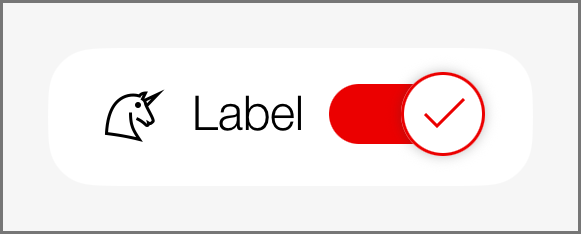
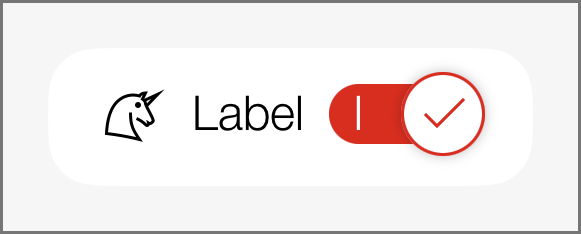
switch support of on/off labels

Changed region(s): [[0.5577, 0.359, 0.8055, 0.688], [0.7745, 0.359, 0.8365, 0.6282], [0.7126, 0.2991, 0.8055, 0.359]]

diff --git a/SBBDesignSystemMobileSwiftUI/Styles/SBBSwitchButtonStyle.swift b/SBBDesignSystemMobileSwiftUI/Styles/SBBSwitchButtonStyle.swift
@@ -5,7 +5,7 @@
 import SwiftUI
 
 /**
- A ToggleStyle in SBB style (red background)
+ A SBB ToggleStyle in SBB style (red background, SBB styling)
  
  ## Overview
  You create a normal Toggle and apply the .toggleStyle() ViewModifier:
@@ -47,42 +47,81 @@ public struct SBBSwitchButtonStyle: ToggleStyle {
     // SwitchToggleStyle does not allow to change the color in disabled mode
     private struct SwitchButtonStyle: ButtonStyle {
         var onColor: Color {
-            Color.sbbColor(.primary).opacity(isEnabled ? 1.0 : 0.5)
+            Color.sbbColor(.primary)
         }
         var offColor: Color {
-            Color.sbbColor(.graphite).opacity(isEnabled ? 1.0 : 0.5)
+            Color.sbbColor(colorScheme == .light ? .graphite : .iron)
         }
         var borderColor: Color {
-            Color.sbbColor(isOn ? .primary : .granite).opacity(isEnabled ? 1.0 : 0.5)
+            Color.sbbColor(isOn ? .primary : .granite)
         }
         var isOn: Bool
         
         @Environment(\.isEnabled) private var isEnabled: Bool
         @Environment(\.colorScheme) var colorScheme
+        @StateObject private var onOffSwitchLabelSettings = OnOffSwitchLabelsSettings()
         
         func makeBody(configuration: Self.Configuration) -> some View {
             RoundedRectangle(cornerRadius: 16, style: .circular)
                 .fill(isOn ? onColor : offColor)
+                .opacity(isEnabled ? 1.0 : 0.5)
                 .frame(width: 52, height: 20)
                 .overlay(
                     ZStack {
-                        Circle()
-                            .foregroundColor(Color.sbbColor(.white))
-                            .shadow(color: Color.sbbColor(.shadow).opacity(0.3), radius: 2, x: 0, y: 0)
-                        Circle()
-                            .strokeBorder(borderColor, lineWidth: 1)
-                        
-                        if isOn {
-                            Image(sbbIcon: .tick_small)
-                                .foregroundColor(borderColor)
-                                .accessibilityHidden(true)
+                        if onOffSwitchLabelSettings.enabled {
+                            HStack {
+                                Text("I")
+                                    .sbbFont(.medium_light)
+                                    .foregroundColor(.white)
+                                    .opacity(isOn ? 1 : 0)
+                                    .animation(.easeInOut(duration: 0.1), value: isOn)
+                                    .accessibilityHidden(true)
+
+                                Spacer()
+
+                                Text("O")
+                                    .sbbFont(.medium_light)
+                                    .foregroundColor(.black)
+                                    .opacity(isOn ? 0 : 1)
+                                    .animation(.easeInOut(duration: 0.1), value: isOn)
+                                    .accessibilityHidden(true)
+                            }
+                            .padding(.horizontal, 8)
+                            .frame(width: 52)
                         }
-                    }
+                        ZStack {
+                            if !isEnabled {
+                                Circle()
+                                    .foregroundColor(isOn ? onColor : offColor)
+                            }
+                            Circle()
+                                .foregroundColor(Color.sbbColor(.white))
+                                .opacity(isEnabled ? 1.0 : 0.8)
+                                .shadow(color: Color.sbbColor(.shadow).opacity(0.3), radius: 2, x: 0, y: 0)
+                            Circle()
+                                .strokeBorder(borderColor, lineWidth: 1)
+                                .opacity(isEnabled ? 1.0 : 0.5)
+                            
+                            if isOn {
+                                Image(sbbIcon: .tick_small)
+                                    .foregroundColor(borderColor)
+                                    .opacity(isEnabled ? 1.0 : 0.5)
+                                    .accessibilityHidden(true)
+                            }
+                        }
                         .frame(width: 28, height: 28)
                         .offset(x: isOn ? 12 : -12)
+                    }
                 )
                 .frame(width: 52, height: 28)
                 .animation(Animation.easeInOut(duration: 0.1), value: isOn)
         }
+    }
+}
+
+struct SBBSwitchButtonStyle_Previews: PreviewProvider {
+    static var previews: some View {
+        Toggle("", isOn: .constant(true))
+            .toggleStyle(SBBSwitchButtonStyle())
     }
 }

diff --git a/SBBDesignSystemMobileSwiftUI/Views/SBBSwitchItem.swift b/SBBDesignSystemMobileSwiftUI/Views/SBBSwitchItem.swift
@@ -32,7 +32,6 @@ public struct SBBSwitchItem: View {
     private let actionOnEnable: @Sendable () async -> Bool
     private let actionOnDisable: @Sendable () async -> Bool
     private let type: SBBSwitchItemType
-    private let showTopLine: Bool
     private let showBottomLine: Bool
     private let showLoading: Bool
     
@@ -52,24 +51,7 @@ public struct SBBSwitchItem: View {
         case standalone
     }
     
-    public init(isOn: Binding<Bool>, label: Text, labelAccessibility: Text? = nil, image: Image? = nil, footnote: Text? = nil, footnoteAccessibility: Text? = nil, showTopLine: Bool = false, showBottomLine: Bool = true, showLoading: Bool = true, errorMessage: Text? = nil, errorCode: Text? = nil, actionOnEnable: @Sendable @escaping () async -> Bool = { true }, actionOnDisable: @Sendable @escaping () async -> Bool = { true }) {
-        self.label = label
-        self.labelAccessibility = labelAccessibility
-        self.image = image
-        self.footnote = footnote
-        self.footnoteAccessibility = footnoteAccessibility
-        self.type = .list
-        self.errorMessage = errorMessage
-        self.errorCode = errorCode
-        self.actionOnEnable = actionOnEnable
-        self.actionOnDisable = actionOnDisable
-        self.showTopLine = showTopLine
-        self.showBottomLine = showBottomLine
-        self.showLoading = showLoading
-        self._isOn = isOn
-    }
-    
-    public init(isOn: Binding<Bool>, label: Text, labelAccessibility: Text? = nil, image: Image? = nil, footnote: Text? = nil, footnoteAccessibility: Text? = nil, type: SBBSwitchItemType = .list, showLoading: Bool = true, errorMessage: Text? = nil, errorCode: Text? = nil, actionOnEnable: @Sendable @escaping () async -> Bool = { true }, actionOnDisable: @Sendable @escaping () async -> Bool = { true }) {
+    public init(isOn: Binding<Bool>, label: Text, labelAccessibility: Text? = nil, image: Image? = nil, footnote: Text? = nil, footnoteAccessibility: Text? = nil, type: SBBSwitchItemType = .list, showBottomLine: Bool = true, showLoading: Bool = true, errorMessage: Text? = nil, errorCode: Text? = nil, actionOnEnable: @Sendable @escaping () async -> Bool = { true }, actionOnDisable: @Sendable @escaping () async -> Bool = { true }) {
         self.label = label
         self.labelAccessibility = labelAccessibility
         self.image = image
@@ -80,8 +62,7 @@ public struct SBBSwitchItem: View {
         self.errorCode = errorCode
         self.actionOnEnable = actionOnEnable
         self.actionOnDisable = actionOnDisable
-        self.showTopLine = false
-        self.showBottomLine = type != .standalone ? true : false
+        self.showBottomLine = type != .standalone ? showBottomLine : false
         self.showLoading = showLoading
         self._isOn = isOn
     }
@@ -89,9 +70,6 @@ public struct SBBSwitchItem: View {
     public var body: some View {
         
         VStack(spacing: 0) {
-            if showTopLine {
-                SBBDivider()
-            }
             HStack {
                 VStack(alignment: .leading, spacing: 4) {
                     HStack {

diff --git a/SBBDesignSystemMobileSwiftUI/Styles/SBBSwitchStyle.swift b/SBBDesignSystemMobileSwiftUI/Styles/SBBSwitchStyle.swift
@@ -5,7 +5,7 @@
 import SwiftUI
 
 /**
- A ToggleStyle in SBB style (red background)
+ A classic ToggleStyle in SBB style (red background)
  
  ## Overview
  You create a normal Toggle and apply the .toggleStyle() ViewModifier:
@@ -57,18 +57,43 @@ public struct SBBSwitchStyle: ToggleStyle {
         
         @Environment(\.isEnabled) private var isEnabled: Bool
         @Environment(\.colorScheme) var colorScheme
+        @StateObject private var onOffSwitchLabelSettings = OnOffSwitchLabelsSettings()
         
         func makeBody(configuration: Self.Configuration) -> some View {
             RoundedRectangle(cornerRadius: 16, style: .circular)
                 .fill(isOn ? onColor : offColor)
                 .frame(width: 50, height: 31)
                 .overlay(
-                    RoundedRectangle(cornerRadius: 27 / 2, style: .circular)
-                        .fill(thumbColor)
-                        .frame(width: configuration.isPressed ? 33 : 27, height: 27)
-                        .shadow(radius: 1, x: 0, y: 1)
-                        .padding(2)
-                        .offset(x: isOn ? configuration.isPressed ? 6.5 : 9.5 : configuration.isPressed ? -6.5 : -9.5))
+                    ZStack {
+                        if onOffSwitchLabelSettings.enabled {
+                            HStack {
+                                Text("I")
+                                    .sbbFont(.medium_light)
+                                    .foregroundColor(.white)
+                                    .opacity(isOn ? 1 : 0)
+                                    .animation(.easeInOut(duration: 0.1), value: isOn)
+                                    .accessibilityHidden(true)
+
+                                Spacer()
+
+                                Text("O")
+                                    .sbbFont(.medium_light)
+                                    .foregroundColor(.black)
+                                    .opacity(isOn ? 0 : 1)
+                                    .animation(.easeInOut(duration: 0.1), value: isOn)
+                                    .accessibilityHidden(true)
+                            }
+                            .padding(.horizontal, 8)
+                            .frame(width: 50)
+                        }
+                        RoundedRectangle(cornerRadius: 27 / 2, style: .circular)
+                            .fill(thumbColor)
+                            .frame(width: configuration.isPressed ? 33 : 27, height: 27)
+                            .shadow(radius: 1, x: 0, y: 1)
+                            .padding(2)
+                            .offset(x: isOn ? configuration.isPressed ? 6.5 : 9.5 : configuration.isPressed ? -6.5 : -9.5)
+                    }
+                )
                         
                 .animation(Animation.easeInOut(duration: 0.1), value: isOn)
                 .opacity(isEnabled ? 1.0 : 0.5)

diff --git a/SBBDesignSystemMobileSwiftUIDemo/Views/DetailViews/ToggleDemo.swift b/SBBDesignSystemMobileSwiftUIDemo/Views/DetailViews/ToggleDemo.swift
@@ -68,15 +68,16 @@ struct ToggleDemo: View {
                     Spacer()
                 }
                 
-                VStack(spacing: 0) {
-                    SBBSwitchItem(isOn: $toggle5, label: Text("Label"), labelAccessibility: nil, image: Image(sbbIcon: .unicorn_small), showTopLine: true, actionOnEnable: returnTrueAfterDelay, actionOnDisable: returnTrueAfterDelay)
-                    SBBSwitchItem(isOn: $toggle5, label: Text("Label"), labelAccessibility: nil, image: Image(sbbIcon: .unicorn_small), footnote: Text("Footnote"), showTopLine: true, actionOnEnable: returnTrueAfterDelay, actionOnDisable: returnTrueAfterDelay)
+                SBBFormGroup(title: "In a group") {
+                    SBBSwitchItem(isOn: $toggle5, label: Text("Label"), labelAccessibility: nil, image: Image(sbbIcon: .unicorn_small), actionOnEnable: returnTrueAfterDelay, actionOnDisable: returnTrueAfterDelay)
+                    SBBSwitchItem(isOn: $toggle5, label: Text("Label"), labelAccessibility: nil, image: Image(sbbIcon: .unicorn_small), footnote: Text("Footnote"), actionOnEnable: returnTrueAfterDelay, actionOnDisable: returnTrueAfterDelay)
                     
                     SBBSwitchItem(isOn: $toggle2, label: Text("Label on disabled"), labelAccessibility: nil, image: Image(sbbIcon: .unicorn_small), actionOnEnable: returnTrueAfterDelay, actionOnDisable: returnTrueAfterDelay)
                         .disabled(true)
-                    SBBSwitchItem(isOn: $toggle6, label: Text("Label error"), labelAccessibility: nil, image: Image(sbbIcon: .unicorn_small), errorMessage: errorMessage1, errorCode: errorCode1, actionOnEnable: returnFalseAfterDelay1, actionOnDisable: returnFalseAfterDelay1)
+                    SBBSwitchItem(isOn: $toggle6, label: Text("Label error"), labelAccessibility: nil, image: Image(sbbIcon: .unicorn_small), showBottomLine: false, errorMessage: errorMessage1, errorCode: errorCode1, actionOnEnable: returnFalseAfterDelay1, actionOnDisable: returnFalseAfterDelay1)
                 }
                 
+                Text("Standalone")
                 SBBSwitchItem(isOn: $toggle7, label: Text("Label"), labelAccessibility: nil, image: Image(sbbIcon: .unicorn_small), type: .standalone, actionOnEnable: returnTrueAfterDelay, actionOnDisable: returnTrueAfterDelay)
                 SBBSwitchItem(isOn: $toggle7, label: Text("Label"), labelAccessibility: nil, image: Image(sbbIcon: .unicorn_small), footnote: Text("Footnote"), type: .standalone, actionOnEnable: returnTrueAfterDelay, actionOnDisable: returnTrueAfterDelay)
                 SBBSwitchItem(isOn: $toggle2, label: Text("Label off disabled"), labelAccessibility: nil, image: Image(sbbIcon: .unicorn_small), type: .standalone, actionOnEnable: returnTrueAfterDelay, actionOnDisable: returnTrueAfterDelay)

diff --git a/SBBDesignSystemMobileSwiftUI/Styles/OnOffSwitchLabelsEnabledSettings.swift b/SBBDesignSystemMobileSwiftUI/Styles/OnOffSwitchLabelsEnabledSettings.swift
@@ -1,0 +1,28 @@
+//
+// Copyright (c) Schweizerische Bundesbahnen SBB, 2025
+//  
+
+@preconcurrency import UIKit
+
+final class OnOffSwitchLabelsSettings: ObservableObject {
+    @Published var enabled: Bool = UIAccessibility.isOnOffSwitchLabelsEnabled
+    private var observer: (any NSObjectProtocol)?
+
+    init() {
+        observer = NotificationCenter.default.addObserver(
+            forName: UIAccessibility.onOffSwitchLabelsDidChangeNotification,
+            object: nil,
+            queue: .main
+        ) { [weak self] _ in
+            Task { @MainActor in
+                self?.enabled = UIAccessibility.isOnOffSwitchLabelsEnabled
+            }
+        }
+    }
+
+    deinit {
+        if let obs = observer {
+            NotificationCenter.default.removeObserver(obs)
+        }
+    }
+}

diff --git a/SBBDesignSystemMobileSwiftUI/Views/SBBRadioButton.swift b/SBBDesignSystemMobileSwiftUI/Views/SBBRadioButton.swift
@@ -51,6 +51,7 @@ public struct SBBRadioButton: View {
     }
     
     public var body: some View {
+        
         CheckBoxAndRadioButtonContainer(type: .radioButton, isOn: .constant(isOn), image: image, text: text, subText: subText, showBottomLine: showBottomLine, darkModeCheckWhite: darkModeCheckWhite)
     }
 }
